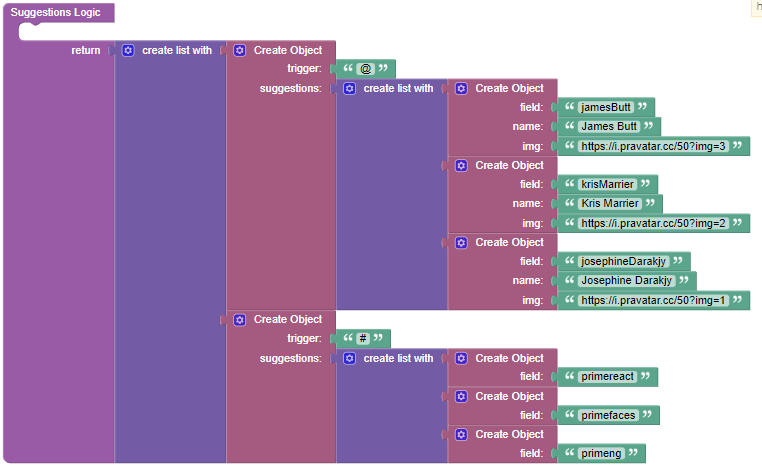
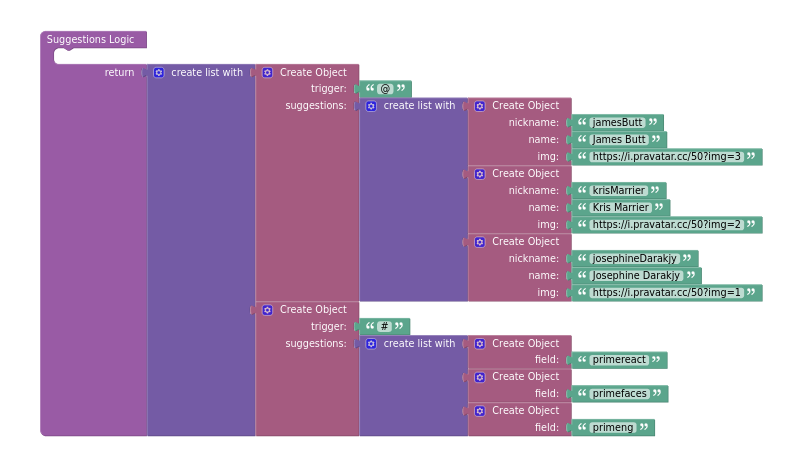
MARKET-2335 [Mention] Console error after mentonied someone. (#889)

diff --git a/components/bl-mention/README.md b/components/bl-mention/README.md
@@ -14,7 +14,7 @@ The component is based on external [Mention](https://www.primefaces.org/primerea
 |----------------|------------|-----------------------------|-------------------|--------------|------------|---------------------------------------------------------------------------------------------------------------------------------------------------------------------------------------------------|
 | Trigger        | *Text*     | '@'                         | Trigger Logic     | YES          | YES        | It is a handler to set trigger keywords.                                                                                                                                                          |
 | Suggestions    | *JSON*     |                             | Suggestions Logic | YES          | YES        | It is a handler to set an array of suggestion objects to display. Watch [Codeless Examples](#codeless-examples). Signature of suggestion object: `{trigger, suggestions: [name, nickname, img]}`. |
-| Field          | *Text*     |                             | Field Logic       | YES          | YES        | It is a handler to sets a field of a suggested object to resolve and display.                                                                                                                     |
+| Field          | *Text*     | "nickname"                  | Field Logic       | YES          | YES        | It is a handler to sets a field of a suggested object to resolve and display.                                                                                                                     |
 | Scroll Height  | *Text*     | '200px'                     |                   | NO           | YES        | It is a handler to set the maximum height of the suggestions panel.                                                                                                                               |
 | Auto Highlight | *Checkbox* | `true`                      |                   | NO           | YES        | It is a handler to set auto-highlighting. When enabled, it highlights the first item in the list by default.                                                                                      |
 | Placeholder    | *Text*     | 'Please enter @ to mention' |                   | NO           | YES        | It is a handler to set a placeholder of the component.                                                                                                                                            |
@@ -79,7 +79,7 @@ Adding suggestions:
 <details><summary>Try yourself</summary>
 
 ````javascript
-  <block xmlns="http://www.w3.org/1999/xhtml" type="lists_create_with" id="wb+rwP@SP7S%t1|;93ZI" x="250.90559999999994" y="62.207999999999984"><mutation items="2"></mutation><value name="ADD0"><block type="create_object" id="BPwxnc^A$Fv+s(cGx*=H"><mutation><properties><item id="property" prop-name="trigger"></item><item id="property" prop-name="suggestions"></item></properties></mutation><value name="create_object_mutator_container_properties_stack_property0"><block type="text" id="uaZH:w25Z0-M[b`Zp9(4"><field name="TEXT">@</field></block></value><value name="create_object_mutator_container_properties_stack_property1"><block type="lists_create_with" id="(2;HPr1QP5{]@F(`ve~Y"><mutation items="3"></mutation><value name="ADD0"><block type="create_object" id="`gC(2|4A2zt:rcJCxrqJ"><mutation><properties><item id="property" prop-name="field"></item><item id="property" prop-name="name"></item><item id="property" prop-name="img"></item></properties></mutation><value name="create_object_mutator_container_properties_stack_property0"><block type="text" id="1U2_eDtk6iv,lFHE*@6_"><field name="TEXT">jamesButt</field></block></value><value name="create_object_mutator_container_properties_stack_property1"><block type="text" id="]0smtJY(a!K@*rE79fOL"><field name="TEXT">James Butt</field></block></value><value name="create_object_mutator_container_properties_stack_property2"><block type="text" id="f@AhW~mECeIDh3raEB/Q"><field name="TEXT">https://i.pravatar.cc/50?img=3</field></block></value></block></value><value name="ADD1"><block type="create_object" id="$vcva;63={Z}qPl}WXE0"><mutation><properties><item id="property" prop-name="field"></item><item id="property" prop-name="name"></item><item id="property" prop-name="img"></item></properties></mutation><value name="create_object_mutator_container_properties_stack_property0"><block type="text" id="o2_;fZuMSPWN]%GN9#NA"><field name="TEXT">krisMarrier</field></block></value><value name="create_object_mutator_container_properties_stack_property1"><block type="text" id=".-H}];KoZ.zSxEi1El|P"><field name="TEXT">Kris Marrier</field></block></value><value name="create_object_mutator_container_properties_stack_property2"><block type="text" id="]pC6Ttq-,d,U[3Z9bT[m"><field name="TEXT">https://i.pravatar.cc/50?img=2</field></block></value></block></value><value name="ADD2"><block type="create_object" id="q%xT]3UAjpfwS4SRyMA]"><mutation><properties><item id="property" prop-name="field"></item><item id="property" prop-name="name"></item><item id="property" prop-name="img"></item></properties></mutation><value name="create_object_mutator_container_properties_stack_property0"><block type="text" id="Kl(b1;qi~*@kl*ikS/q2"><field name="TEXT">josephineDarakjy</field></block></value><value name="create_object_mutator_container_properties_stack_property1"><block type="text" id="O:-UV3`*1f~v:rOwwHL`"><field name="TEXT">Josephine Darakjy</field></block></value><value name="create_object_mutator_container_properties_stack_property2"><block type="text" id="37Sl:yOLw)TpnTopHmr]"><field name="TEXT">https://i.pravatar.cc/50?img=1</field></block></value></block></value></block></value></block></value><value name="ADD1"><block type="create_object" id="b~7{n-:#ay=B;}Cg5{cC"><mutation><properties><item id="property" prop-name="trigger"></item><item id="property" prop-name="suggestions"></item></properties></mutation><value name="create_object_mutator_container_properties_stack_property0"><block type="text" id="Cj_hR#r`_KO5[%HtLg@i"><field name="TEXT">#</field></block></value><value name="create_object_mutator_container_properties_stack_property1"><block type="lists_create_with" id="8#,G+mn9F)y$.nJ`V3hJ"><mutation items="3"></mutation><value name="ADD0"><block type="create_object" id="F|Q-^+C#apJmznn0pEFz"><mutation><properties><item id="property" prop-name="field"></item></properties></mutation><value name="create_object_mutator_container_properties_stack_property0"><block type="text" id="K%qX6^8*)WRuMsSO8u!Z"><field name="TEXT">primereact</field></block></value></block></value><value name="ADD1"><block type="create_object" id="z^Tk!LY%v^x1P$*u4fzf"><mutation><properties><item id="property" prop-name="field"></item></properties></mutation><value name="create_object_mutator_container_properties_stack_property0"><block type="text" id="57w97MI(lJFUjJDU%~Pv"><field name="TEXT">primefaces</field></block></value></block></value><value name="ADD2"><block type="create_object" id="(Y)e,qCc=#[%ApW=o5P%"><mutation><properties><item id="property" prop-name="field"></item></properties></mutation><value name="create_object_mutator_container_properties_stack_property0"><block type="text" id="91-A~*z67Mw8/b(--a`z"><field name="TEXT">primeng</field></block></value></block></value></block></value></block></value></block>
+<block xmlns="http://www.w3.org/1999/xhtml" type="lists_create_with" id="wb+rwP@SP7S%t1|;93ZI" x="196.73333740234375" y="110"><mutation items="2"></mutation><value name="ADD0"><block type="create_object" id="BPwxnc^A$Fv+s(cGx*=H"><mutation><properties><item id="property" prop-name="trigger"></item><item id="property" prop-name="suggestions"></item></properties></mutation><value name="create_object_mutator_container_properties_stack_property0"><block type="text" id="uaZH:w25Z0-M[b`Zp9(4"><field name="TEXT">@</field></block></value><value name="create_object_mutator_container_properties_stack_property1"><block type="lists_create_with" id="(2;HPr1QP5{]@F(`ve~Y"><mutation items="3"></mutation><value name="ADD0"><block type="create_object" id="`gC(2|4A2zt:rcJCxrqJ"><mutation><properties><item id="property" prop-name="nickname"></item><item id="property" prop-name="name"></item><item id="property" prop-name="img"></item></properties></mutation><value name="create_object_mutator_container_properties_stack_property0"><block type="text" id="1U2_eDtk6iv,lFHE*@6_"><field name="TEXT">jamesButt</field></block></value><value name="create_object_mutator_container_properties_stack_property1"><block type="text" id="]0smtJY(a!K@*rE79fOL"><field name="TEXT">James Butt</field></block></value><value name="create_object_mutator_container_properties_stack_property2"><block type="text" id="f@AhW~mECeIDh3raEB/Q"><field name="TEXT">https://i.pravatar.cc/50?img=3</field></block></value></block></value><value name="ADD1"><block type="create_object" id="$vcva;63={Z}qPl}WXE0"><mutation><properties><item id="property" prop-name="nickname"></item><item id="property" prop-name="name"></item><item id="property" prop-name="img"></item></properties></mutation><value name="create_object_mutator_container_properties_stack_property0"><block type="text" id="o2_;fZuMSPWN]%GN9#NA"><field name="TEXT">krisMarrier</field></block></value><value name="create_object_mutator_container_properties_stack_property1"><block type="text" id=".-H}];KoZ.zSxEi1El|P"><field name="TEXT">Kris Marrier</field></block></value><value name="create_object_mutator_container_properties_stack_property2"><block type="text" id="]pC6Ttq-,d,U[3Z9bT[m"><field name="TEXT">https://i.pravatar.cc/50?img=2</field></block></value></block></value><value name="ADD2"><block type="create_object" id="q%xT]3UAjpfwS4SRyMA]"><mutation><properties><item id="property" prop-name="nickname"></item><item id="property" prop-name="name"></item><item id="property" prop-name="img"></item></properties></mutation><value name="create_object_mutator_container_properties_stack_property0"><block type="text" id="Kl(b1;qi~*@kl*ikS/q2"><field name="TEXT">josephineDarakjy</field></block></value><value name="create_object_mutator_container_properties_stack_property1"><block type="text" id="O:-UV3`*1f~v:rOwwHL`"><field name="TEXT">Josephine Darakjy</field></block></value><value name="create_object_mutator_container_properties_stack_property2"><block type="text" id="37Sl:yOLw)TpnTopHmr]"><field name="TEXT">https://i.pravatar.cc/50?img=1</field></block></value></block></value></block></value></block></value><value name="ADD1"><block type="create_object" id="b~7{n-:#ay=B;}Cg5{cC"><mutation><properties><item id="property" prop-name="trigger"></item><item id="property" prop-name="suggestions"></item></properties></mutation><value name="create_object_mutator_container_properties_stack_property0"><block type="text" id="Cj_hR#r`_KO5[%HtLg@i"><field name="TEXT">#</field></block></value><value name="create_object_mutator_container_properties_stack_property1"><block type="lists_create_with" id="8#,G+mn9F)y$.nJ`V3hJ"><mutation items="3"></mutation><value name="ADD0"><block type="create_object" id="F|Q-^+C#apJmznn0pEFz"><mutation><properties><item id="property" prop-name="field"></item></properties></mutation><value name="create_object_mutator_container_properties_stack_property0"><block type="text" id="K%qX6^8*)WRuMsSO8u!Z"><field name="TEXT">primereact</field></block></value></block></value><value name="ADD1"><block type="create_object" id="z^Tk!LY%v^x1P$*u4fzf"><mutation><properties><item id="property" prop-name="field"></item></properties></mutation><value name="create_object_mutator_container_properties_stack_property0"><block type="text" id="57w97MI(lJFUjJDU%~Pv"><field name="TEXT">primefaces</field></block></value></block></value><value name="ADD2"><block type="create_object" id="(Y)e,qCc=#[%ApW=o5P%"><mutation><properties><item id="property" prop-name="field"></item></properties></mutation><value name="create_object_mutator_container_properties_stack_property0"><block type="text" id="91-A~*z67Mw8/b(--a`z"><field name="TEXT">primeng</field></block></value></block></value></block></value></block></value></block>
 ````
 </details>
 
